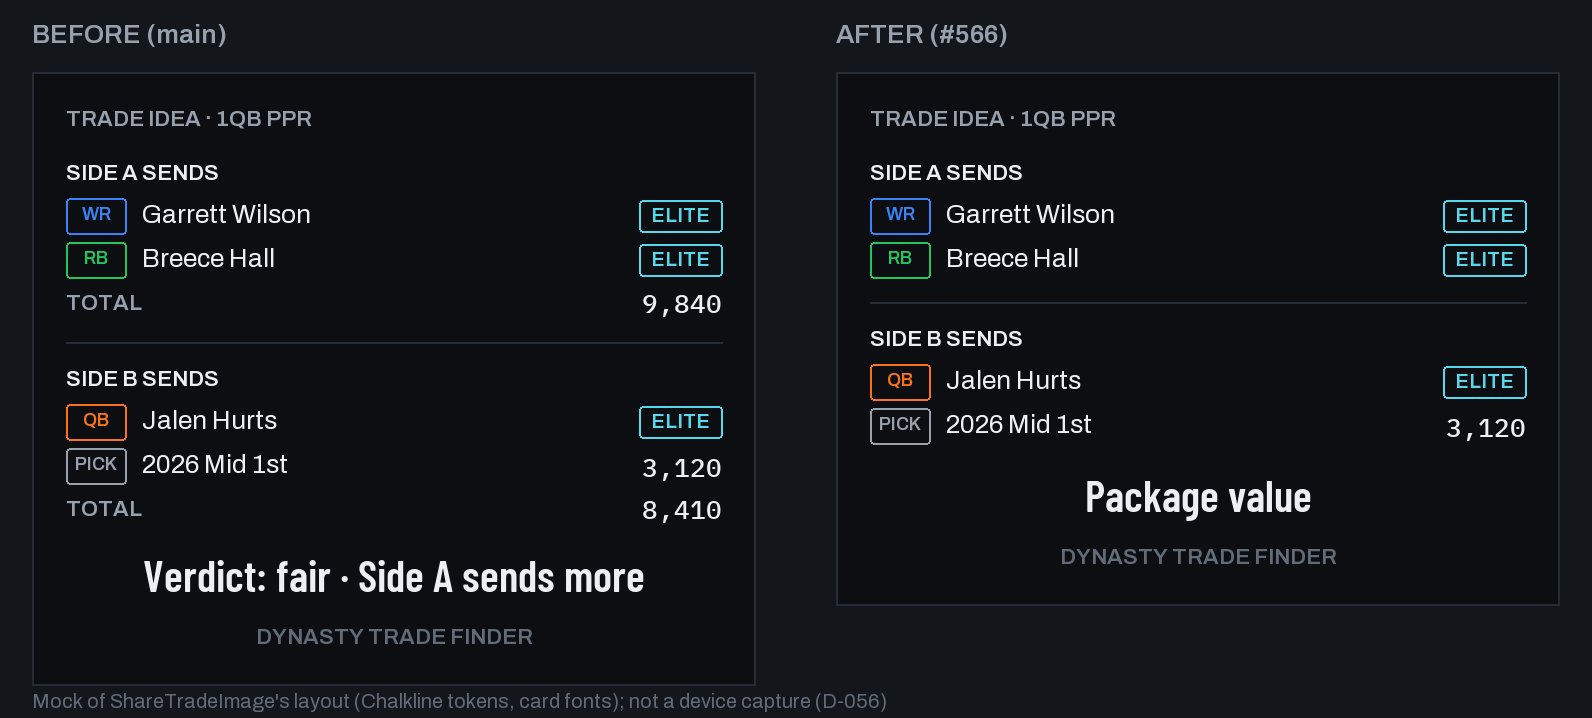
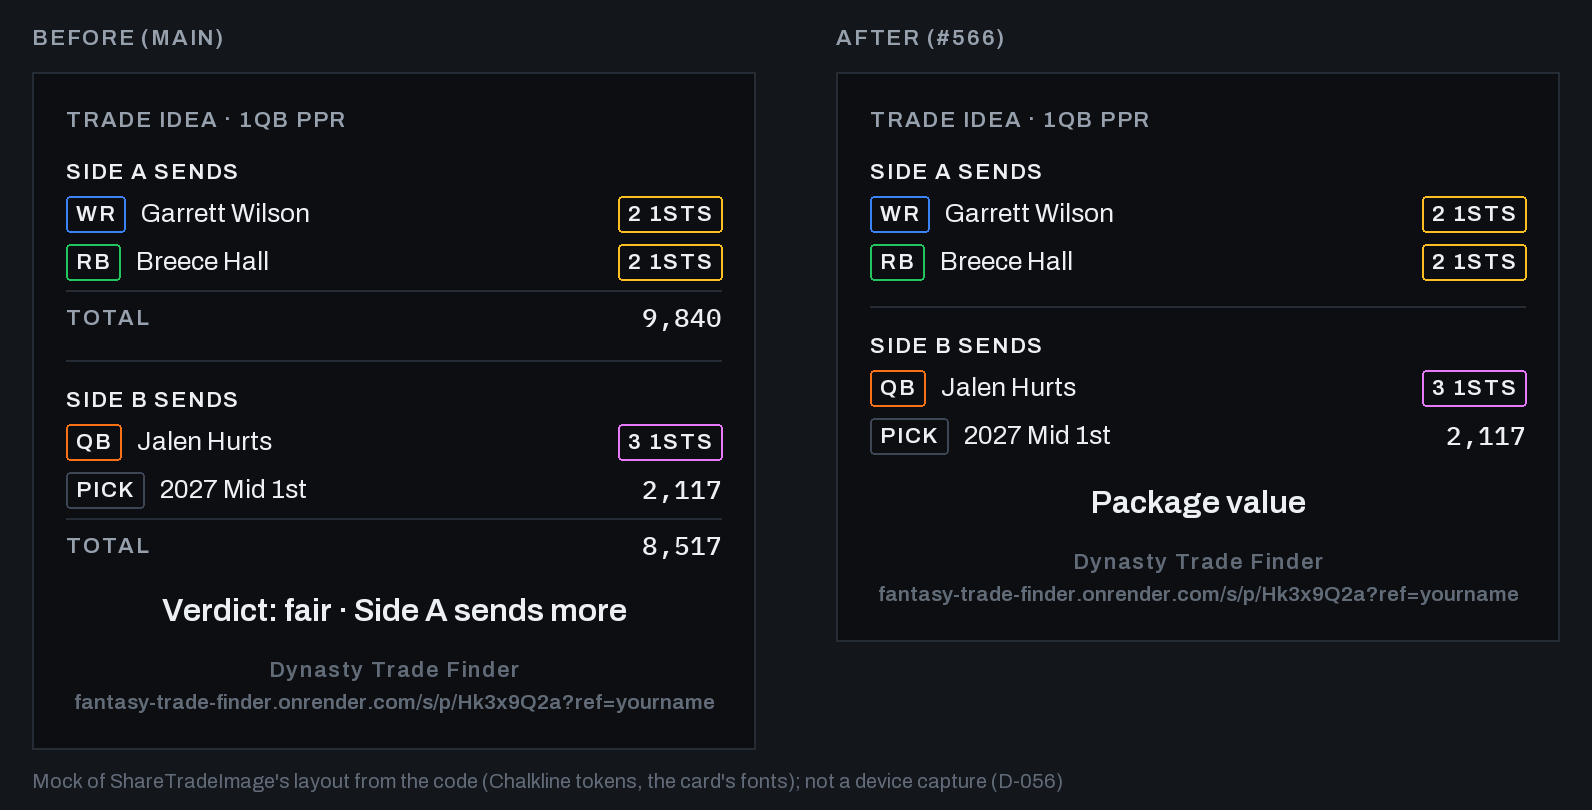
C2: renders redrawn from the code; the guard bans by meaning; TestFlight steps fixed (#566 QA)
- Renders (P2-2): render.py draws both before/after PNGs from the code:
  TierBadge's pick-value ladder labels in chalk with a tier-coloured
  border (not cyan ELITE/STARTER), PositionChip the same way, a pick's
  number, and the wordmark plus the URL footer in both panes.
- TestFlight checklist (P2-3): steps 2 and 5 read the message body sent
  with the image in Messages (no capture toggle on iOS); step 1 adds a
  pick, the footer and the unchanged on-screen verdict; step 3 notes the
  link preview is #511's.
- Guard (P3): bans .verdict, point_ratio, give_value / receive_value,
  favors, "fair" and "%" in every share region, and scans the card's
  render body, which must render the line it's given exactly once. The
  card's style key verdict is now valueLine. Stale "verdict" comments fixed.

diff --git a/mobile/tests/check-share-text.js b/mobile/tests/check-share-text.js
@@ -8,9 +8,10 @@
 // TOTAL rows were the raw consensus read. Every state now says the existing
 // "Package value" (SHARE_VALUE_LINE), on the image and in the text.
 //
-// Scoped to the share code: the share image component, each
-// <ShareTradeImage … /> element (its verdictLine and its fallback text) and
-// the calculator's shareTrade text. The in-app verdict (LeagueVerdict, the
+// Scoped to the share code: the share image component and its render body,
+// each <ShareTradeImage … /> element (its caption, verdictLine and fallback
+// text) and the calculator's shareTrade text. Banned by string and by
+// meaning (a .verdict read, the ratio, the side values, "fair", "%"). The in-app verdict (LeagueVerdict, the
 // calculator's verdict card) is unchanged and not checked here.
 //
 // Run: node tests/check-share-text.js
@@ -63,21 +64,41 @@ check('SHARE_VALUE_LINE is the existing "Package value" label',
 check('the share image has no TOTAL row', !/>TOTAL</.test(image) && !/styles\.totalRow/.test(image));
 check('the share image takes no totals', !/sendTotal|receiveTotal/.test(image));
 
+// By meaning, not only by string (release-lead's #566 QA): a verdict read
+// off the evaluation, its ratio, its side values or its favoured side, the
+// word "fair", or a percentage, anywhere in the share code.
+const BANNED_PATTERNS = [
+  [/\.verdict\b/, '.verdict'], [/point_ratio/, 'point_ratio'],
+  [/\b(give|receive)_value\b/, 'give_value / receive_value'], [/\bfavors\b/, 'favors'],
+  [/\bfair\b/i, '"fair"'], [/%/, '"%"'],
+];
+
 const shareCode = [
   ['the calculator\'s share image', elements(calc)],
   ['the in-league share image', elements(league)],
   ['the calculator\'s text share', [region(calc, 'const shareTrade = async', 'const liveReady')]],
 ];
-for (const [where, regions] of shareCode) {
+// The card's own render body: nothing hard-coded beside the line it's given.
+const renderBody = region(image, 'export default function ShareTradeImage', '\nconst styles');
+for (const [where, regions] of [...shareCode, ['the share image\'s render body', [renderBody]]]) {
   check(`${where} is found`, regions.length > 0 && regions.every((r) => r.length > 0),
     'the region moved: update this check');
   for (const r of regions) {
     for (const banned of BANNED) {
       check(`${where} has no "${banned}"`, !r.includes(banned));
     }
+    for (const [pattern, name] of BANNED_PATTERNS) {
+      check(`${where} has no ${name}`, !pattern.test(r));
+    }
+  }
+}
+for (const [where, regions] of shareCode) {
+  for (const r of regions) {
     check(`${where} states SHARE_VALUE_LINE`, r.includes('SHARE_VALUE_LINE'));
   }
 }
+check('the card renders the line it is given, once',
+  (renderBody.match(/\{props\.verdictLine\}/g) || []).length === 1);
 for (const [where, regions] of shareCode.slice(0, 2)) {
   for (const r of regions) {
     check(`${where} passes verdictLine={SHARE_VALUE_LINE}`, r.includes('verdictLine={SHARE_VALUE_LINE}'));

diff --git a/mobile/src/components/ShareTradeImage.tsx b/mobile/src/components/ShareTradeImage.tsx
@@ -21,8 +21,9 @@ import type { Tier } from '../shared/types';
 
 // Share-as-image (DynastyDealer teardown 2026-07-26, polish item 5): render
 // a clean Chalkline share card of the trade — caption + both sides with
-// values + verdict + a "Dynasty Trade Finder" wordmark AND the share URL —
-// to a PNG (react-native-view-shot) and hand it to the native share sheet.
+// tiers (picks: values) + "Package value" (C2) + a "Dynasty Trade Finder"
+// wordmark AND the share URL — to a PNG (react-native-view-shot) and hand it
+// to the native share sheet.
 //
 // audit P1-1: the card used to carry no link at all, so a recipient of the
 // screenshot had nothing to type. Every artifact this component produces
@@ -248,7 +249,7 @@ export default function ShareTradeImage(props: Props) {
           {sideBlock(props.sendTitle, props.sendAssets)}
           <View style={styles.divider} />
           {sideBlock(props.receiveTitle, props.receiveAssets)}
-          <Text style={styles.verdict}>{props.verdictLine}</Text>
+          <Text style={styles.valueLine}>{props.verdictLine}</Text>
           {/* P1-1 — the footer mirrors the server's own OG card footer
               (backend/og_image.py _draw_footer) so the two artifacts read
               as one product, and so a screenshot has somewhere to go. */}
@@ -288,7 +289,7 @@ const styles = StyleSheet.create({
   assetValue: { ...type.data, color: chalk.base },
   tierSlot: { alignSelf: 'center' },
   divider: { height: 1, backgroundColor: ink.line },
-  verdict: { ...type.title, color: chalk.base, textAlign: 'center' },
+  valueLine: { ...type.title, color: chalk.base, textAlign: 'center' },
   // The card's own gap is space.md; the wordmark and the URL are one block,
   // so they sit tighter than that and read as a single footer.
   footer: { gap: 2, alignItems: 'stretch' },

diff --git a/mobile/src/screens/TradeCalculatorScreen.tsx b/mobile/src/screens/TradeCalculatorScreen.tsx
@@ -620,7 +620,8 @@ export default function TradeCalculatorScreen({ route, navigation }: any) {
   const liveReady = !!valuesQuery.data;
 
   // Share-as-image (DynastyDealer teardown 2026-07-26) — live mode only:
-  // the share card needs a server verdict and the pool's names/positions.
+  // shown once the server's evaluation has loaded; the card needs the pool's
+  // names/positions (it states no verdict, C2).
   const liveShareAssets = (ids: string[]): ShareAsset[] =>
     ids
       .map((id) => livePlayerById[id])
@@ -1013,7 +1014,7 @@ export default function TradeCalculatorScreen({ route, navigation }: any) {
               <Button label="Share trade" variant="secondary" onPress={shareTrade} />
             ) : null}
             {/* Share-as-image (DynastyDealer teardown 2026-07-26): PNG of
-                the verdict card via the native sheet; text fallback. */}
+                the trade card via the native sheet; text fallback. */}
             {bothSides && evalQuery.data ? (
               <ShareTradeImage
                 caption={`Trade idea · ${FORMATS.find((f) => f.key === format)?.label ?? ''}`}

diff --git a/mobile/src/components/InLeagueCalculator.tsx b/mobile/src/components/InLeagueCalculator.tsx
@@ -1571,7 +1571,7 @@ export default function InLeagueCalculator({
               renders above the verdict (see the D-303-1 comment there).
               Share + Clear deliberately stay here. */}
           {/* Share-as-image (DynastyDealer teardown 2026-07-26): render the
-              verdict to a PNG for the native share sheet; text fallback. */}
+              trade to a PNG for the native share sheet; text fallback. */}
           {bothSides && ev ? (
             <ShareTradeImage
               caption={`vs @${opponent?.username ?? 'them'} · ${FORMAT_LABEL[format]}`}

diff --git a/docs/plans/share-text-c2/renders/render.py b/docs/plans/share-text-c2/renders/render.py
@@ -1,0 +1,188 @@
+"""Before/after mocks of ShareTradeImage's card for the operator's design OK
+(C2, #566). Pillow draws the card's layout from the code, in the Chalkline
+tokens and the card's own fonts; it is not a device capture (D-056).
+
+What it mirrors, by file:
+- ShareTradeImage.tsx: the card (360 wide, ink0, a 1px ink.line border,
+  padding space.lg, gap space.md); caption and side titles in type.label;
+  rows of PositionChip, name (type.bodySm in chalk.base) and either the
+  TierBadge or a pick's value (type.data); the divider; the verdict line
+  (type.title, centred); the footer (wordmark, then the URL, 11/14 Archivo
+  SemiBold in chalk.faint, gap 2, the URL shrunk to fit down to 0.8).
+  Main's card adds each side's TOTAL row (a hairline, then TOTAL in
+  type.label chalk.dim and the sum in type.data).
+- TierBadge.tsx / PositionChip.tsx, size sm: a 1px border in the tier's or
+  position's colour (a pick's: ink.lineStrong), padding 4 by 1, radius xs,
+  the label in type.label (uppercase, tracked) in chalk.base. Tier labels
+  are the pick-value ladder's ("2 1sts", "1 1st", ...).
+- theme/chalkline.ts and theme/colors.ts: every colour and type size.
+
+Run from the repo root (fonts from the shared mobile deps):
+  python3 docs/plans/share-text-c2/renders/render.py
+"""
+from pathlib import Path
+
+from PIL import Image, ImageDraw, ImageFont
+
+FONTS = Path("/Users/teresadickens/ftf-worktrees/mobile-deps/mobile/node_modules/@expo-google-fonts")
+OUT = Path(__file__).resolve().parent
+S = 2  # drawn at 2x
+
+INK0, INK1, LINE, LINE_STRONG = "#0C0E11", "#13161B", "#262C35", "#3D4654"
+BASE, DIM, FAINT = "#ECEFF4", "#97A1AE", "#626C79"
+POSITION = {"QB": "#f97316", "RB": "#22c55e", "WR": "#3b82f6", "TE": "#a855f7"}
+TIER = {"firsts_4plus": "#f87171", "firsts_3": "#e879f9", "firsts_2": "#fbbf24",
+        "first_1": "#2dd4bf", "second": "#38bdf8", "third": "#f472b6",
+        "fourth": "#a3e635", "waivers": "#7a7f96"}
+TIER_LABEL = {"firsts_4plus": "4+ 1sts", "firsts_3": "3 1sts", "firsts_2": "2 1sts",
+              "first_1": "1 1st", "second": "2nd", "third": "3rd", "fourth": "4th",
+              "waivers": "FA"}
+
+
+def font(family, weight, size):
+    name = family.replace("-", " ").title().replace(" ", "")
+    return ImageFont.truetype(str(FONTS / family / weight / f"{name}_{weight}.ttf"), size * S)
+
+
+# type.* (size, line height, letter spacing, uppercase)
+LABEL = (lambda: font("archivo", "600SemiBold", 11), 14, 0.88, True)
+BODY_SM = (lambda: font("archivo", "400Regular", 13), 18, 0, False)
+DATA = (lambda: font("ibm-plex-mono", "500Medium", 13), 18, 0, False)
+TITLE = (lambda: font("archivo", "600SemiBold", 16), 22, 0, False)
+FOOTER = (lambda: font("archivo", "600SemiBold", 11), 14, 0, False)
+WORDMARK = (lambda: font("archivo", "600SemiBold", 11), 14, 0.8, False)
+
+
+def width(d, text, style, scale=1.0):
+    f, _, ls, upper = style
+    text = text.upper() if upper else text
+    fnt = f() if scale == 1.0 else font("archivo", "600SemiBold", 11 * scale)
+    return d.textlength(text, font=fnt) + ls * S * max(len(text) - 1, 0)
+
+
+def draw_text(d, x, y, text, style, fill, scale=1.0):
+    """Top-left at (x, y) of a line box of the style's line height; letter
+    spacing drawn per character, as RN applies it."""
+    f, lh, ls, upper = style
+    text = text.upper() if upper else text
+    fnt = f() if scale == 1.0 else font("archivo", "600SemiBold", 11 * scale)
+    asc, desc = fnt.getmetrics()
+    ty = y + (lh * S - (asc + desc)) / 2
+    for ch in text if ls else [text]:
+        d.text((x, ty), ch, font=fnt, fill=fill)
+        x += d.textlength(ch, font=fnt) + ls * S
+
+
+def outlined_label(d, x_right, y_mid, text, border):
+    """TierBadge / PositionChip at size sm, right-aligned when x_right is a
+    right edge, else left-aligned at -x_right."""
+    w = width(d, text, LABEL) + 2 * 4 * S + 2 * S
+    h = (14 + 2 * 1) * S + 2 * S
+    x0 = x_right - w if x_right > 0 else -x_right
+    y0 = y_mid - h / 2
+    d.rounded_rectangle((x0, y0, x0 + w, y0 + h), radius=2 * S, outline=border, width=S)
+    draw_text(d, x0 + 5 * S, y0 + 2 * S, text, LABEL, BASE)
+    return x0, w
+
+
+def card(caption, sides, verdict, url, totals):
+    W, pad, gap = 360 * S, 16 * S, 12 * S
+    img = Image.new("RGB", (W, 1000 * S), INK0)
+    d = ImageDraw.Draw(img)
+    y = pad
+    draw_text(d, pad, y, caption, LABEL, DIM)
+    y += 14 * S + gap
+    for i, (title, assets) in enumerate(sides):
+        if i:
+            d.rectangle((pad, y, W - pad - 1, y + S - 1), fill=LINE)
+            y += S + gap
+        draw_text(d, pad, y, title, LABEL, BASE)
+        y += 14 * S
+        for pos, name, tier in assets:
+            y += 4 * S                                   # side gap space.xs
+            row_h = 20 * S                               # the chip's height sets the row
+            mid = y + row_h / 2
+            chip_x, chip_w = outlined_label(d, -pad, mid, pos, POSITION.get(pos, LINE_STRONG))
+            name_x = chip_x + chip_w + 8 * S
+            draw_text(d, name_x, mid - 9 * S, name, BODY_SM, BASE)
+            if tier:
+                outlined_label(d, W - pad, mid, TIER_LABEL[tier], TIER[tier])
+            else:
+                value = f"{VALUES[name]:,}"
+                draw_text(d, W - pad - width(d, value, DATA), mid - 9 * S, value, DATA, BASE)
+            y += row_h
+        if totals:
+            y += 4 * S
+            d.rectangle((pad, y, W - pad - 1, y + S - 1), fill=LINE)
+            y += S + 4 * S                               # paddingTop space.xs
+            total = f"{sum(VALUES[n] for _, n, _ in assets):,}"
+            draw_text(d, pad, y + 2 * S, "TOTAL", LABEL, DIM)
+            draw_text(d, W - pad - width(d, total, DATA), y, total, DATA, BASE)
+            y += 18 * S
+        y += gap
+    lines, cur = [], ""
+    for word in verdict.split(" "):                      # the centred Text wraps
+        trial = (cur + " " + word).strip()
+        if width(d, trial, TITLE) > W - 2 * pad and cur:
+            lines.append(cur)
+            cur = word
+        else:
+            cur = trial
+    lines.append(cur)
+    for line in lines:
+        draw_text(d, (W - width(d, line, TITLE)) / 2, y, line, TITLE, BASE)
+        y += 22 * S
+    y += gap
+    mark = "Dynasty Trade Finder"
+    draw_text(d, (W - width(d, mark, WORDMARK)) / 2, y, mark, WORDMARK, FAINT)
+    y += 14 * S + 2 * S
+    scale = 1.0                                          # adjustsFontSizeToFit, min 0.8
+    while width(d, url, FOOTER, scale) > W - 2 * pad and scale > 0.8:
+        scale = round(scale - 0.02, 2)
+    draw_text(d, (W - width(d, url, FOOTER, scale)) / 2, y, url, FOOTER, FAINT, scale)
+    y += 14 * S + pad
+    img = img.crop((0, 0, W, y))
+    framed = Image.new("RGB", (W + 2 * S, y + 2 * S), LINE)
+    framed.paste(img, (S, S))
+    return framed
+
+
+def pair(name, left_label, before, right_label, after):
+    gap, top, margin = 40 * S, 36 * S, 16 * S
+    H = max(before.height, after.height) + top + 30 * S
+    W = before.width + after.width + gap + 2 * margin
+    out = Image.new("RGB", (W, H), INK1)
+    d = ImageDraw.Draw(out)
+    draw_text(d, margin, 12 * S, left_label, LABEL, DIM)
+    draw_text(d, margin + before.width + gap, 12 * S, right_label, LABEL, DIM)
+    out.paste(before, (margin, top))
+    out.paste(after, (margin + before.width + gap, top))
+    note = ("Mock of ShareTradeImage's layout from the code (Chalkline tokens, the card's fonts); "
+            "not a device capture (D-056)")
+    d.text((margin, H - 20 * S), note, font=font("archivo", "400Regular", 10), fill=FAINT)
+    out.save(OUT / name)
+
+
+# Values on the elo_to_value scale; a player's row shows its tier, a pick's its value.
+VALUES = {"Garrett Wilson": 4630, "Breece Hall": 5210, "Jalen Hurts": 6400,
+          "Sam LaPorta": 2450, "C.J. Stroud": 6500, "2027 Mid 1st": 2117}
+
+calc = [("Side A sends", [("WR", "Garrett Wilson", "firsts_2"), ("RB", "Breece Hall", "firsts_2")]),
+        ("Side B sends", [("QB", "Jalen Hurts", "firsts_3"), ("PICK", "2027 Mid 1st", None)])]
+calc_url = "fantasy-trade-finder.onrender.com/s/p/Hk3x9Q2a?ref=yourname"
+pair("calculator-before-after.png",
+     "Before (main)",
+     card("Trade idea · 1QB PPR", calc, "Verdict: fair · Side A sends more", calc_url, True),
+     "After (#566)",
+     card("Trade idea · 1QB PPR", calc, "Package value", calc_url, False))
+
+league = [("You send", [("WR", "Garrett Wilson", "firsts_2"), ("TE", "Sam LaPorta", "first_1")]),
+          ("You receive", [("QB", "C.J. Stroud", "firsts_3")])]
+league_url = "fantasy-trade-finder.onrender.com/s/p/q7Lm2Wd0?ref=yourname"
+pair("in-league-before-after.png",
+     "Before (main), the opponent's board diverges",
+     card("vs @mike_dynasty · SF TEP", league,
+          "Wins by my board — @mike_dynasty likely disagrees", league_url, True),
+     "After (#566)",
+     card("vs @mike_dynasty · SF TEP", league, "Package value", league_url, False))
+print("ok")

diff --git a/docs/plans/share-text-c2/scope.md b/docs/plans/share-text-c2/scope.md
@@ -31,13 +31,24 @@
   - in each `<ShareTradeImage … />` element and in the calculator's `shareTrade` text, no verdict / win / board / ratio / consensus-total string and no verdict function remain, and each states `SHARE_VALUE_LINE`.
   - **Against main's share code it fails 19 checks.**
 - [x] **Unit tests:** none. This is a client-only copy removal; the guard covers it.
-- [x] **Before/after renders** (for the operator's design approval): `renders/calculator-before-after.png` and `renders/in-league-before-after.png`, the latter against a diverging opponent. They're Pillow mocks of `ShareTradeImage`'s layout in the Chalkline tokens and the card's fonts, not device captures (D-056).
-- [x] **Manual TestFlight checklist** (operator, on the 11-06 binary):
-  1. Calculator (live, both sides filled) → **Share image**: the card shows the two sides with tier badges and then "Package value". No TOTAL rows, no "Verdict", no "%".
-  2. In the same state, turn image capture off (or on Android) → the text fallback reads "Trade idea (…)", "Side A: …", "Side B: …", "Package value", and nothing else.
-  3. Calculator → **Share** (the text button) → the same three lines plus "Package value", and a "Build your own" link when share landing is on. No "Consensus:", "ratio" or "Verdict".
-  4. In-league calculator, against an opponent whose board diverges from yours (a "Wins by my board" or "@opp wins" verdict on screen) → **Share image**: the card says "Package value", never a win or board line. The on-screen verdict is unchanged.
-  5. The in-league text fallback reads "Trade idea vs @opp (…)", "I send: …", "I get: …", "Package value".
+- [x] **Before/after renders** (for the operator's design OK): `renders/calculator-before-after.png`, and `renders/in-league-before-after.png` against a diverging opponent. They're mocks, not device captures (D-056). `renders/render.py` draws them from the code:
+  - the layout of `ShareTradeImage`, with main's TOTAL rows in the before pane;
+  - `TierBadge`'s pick-value ladder labels ("2 1sts", "1 1st", …; `type.label` uppercases them on the device), drawn in `chalk.base` with a 1px border in the tier's colour;
+  - `PositionChip` the same way, with a pick's border in `ink.lineStrong`; a pick shows its number;
+  - the wordmark, then the URL footer;
+  - the Chalkline tokens and the card's own fonts.
+  The first version drew cyan "ELITE" / "STARTER" badges and no URL footer (release-lead's #566 QA P2-2). Redrawn.
+- [x] **Manual TestFlight checklist** (operator, on the 11-06 binary). There's no image-capture toggle on an iPhone: the text fallback is the message body sent with the image (`ShareTradeImage.tsx:150`), so steps 2 and 5 read it in Messages.
+  1. **Calculator** (live, both sides filled, a pick on one side) → **Share image**. The card shows:
+     - the two sides, players with their tier badges and the pick with its number;
+     - then "Package value", then the "Dynasty Trade Finder" wordmark and the URL footer;
+     - no TOTAL rows, no "Verdict", no "%".
+     The on-screen verdict card is unchanged.
+  2. **In step 1's share sheet, pick Messages and read the text body.** It's exactly 4 lines, "Trade idea (…)", "Side A: …", "Side B: …", "Package value", then the link. No Consensus, ratio, Verdict, win or board line.
+  3. **Calculator → Share** (the text button). The message is the same 4 lines, then "Build your own: <link>" when share landing is on. No "Consensus:", "ratio" or "Verdict".
+     - The link's preview still says "% fair" until #511 is live. That's #511's, not C2's.
+  4. **In-league calculator**, against an opponent whose board diverges from yours (a "Wins by my board" or "@opp wins" verdict on screen) → **Share image**. The card says "Package value", never a win or board line, with the wordmark and the URL footer. The on-screen verdict is unchanged.
+  5. **In step 4's share sheet, pick Messages and read the text body.** It's exactly 4 lines, "Trade idea vs @opp (…)", "I send: …", "I get: …", "Package value", then the link. No Consensus, ratio, Verdict, win or board line.
 - `testID`s added/renamed: none.
 
 ## 4. Docs scope
